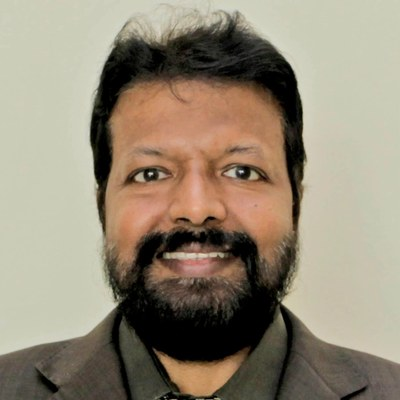
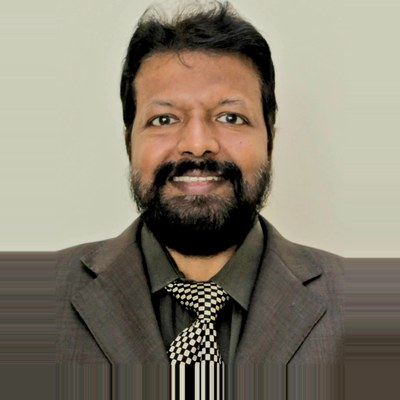
Re-crop new speaker photos so faces clear the name card

diff --git a/index.html b/index.html
@@ -1312,7 +1312,7 @@ Groupon (NASDAQ-listed)
         <div class="col-lg-4 col-sm-6 col-12 wow fadeInUp animated" data-wow-delay="0.9s" data-wow-duration="0.3s">
           <div class="speaker-box-layout2">
             <div class="figure-box">
-              <img src="image/balakrishnan-muniapan.jpg" alt="Dr Balakrishnan Muniapan" width="546" height="615">
+              <img src="image/balakrishnan-muniapan.jpg?v=2" alt="Dr Balakrishnan Muniapan" width="546" height="615">
             </div>
             <div class="content-box">
               <h3 class="title"><a href="https://icisd.in/speaker-single.html">Dr Balakrishnan Muniapan, SFHEA</a></h3>
@@ -1339,7 +1339,7 @@ Birmingham City University
        <div class="col-lg-4 col-sm-6 col-12 wow fadeInUp animated" data-wow-delay="0.9s" data-wow-duration="0.3s">
           <div class="speaker-box-layout2">
             <div class="figure-box">
-              <img src="image/lawrence-arokiasamy.jpg" alt="Dr. Lawrence Arokiasamy" width="546" height="615">
+              <img src="image/lawrence-arokiasamy.jpg?v=2" alt="Dr. Lawrence Arokiasamy" width="546" height="615">
             </div>
             <div class="content-box">
               <h3 class="title"><a href="https://icisd.in/speaker-single.html">Dr. Lawrence Arokiasamy</a></h3>
